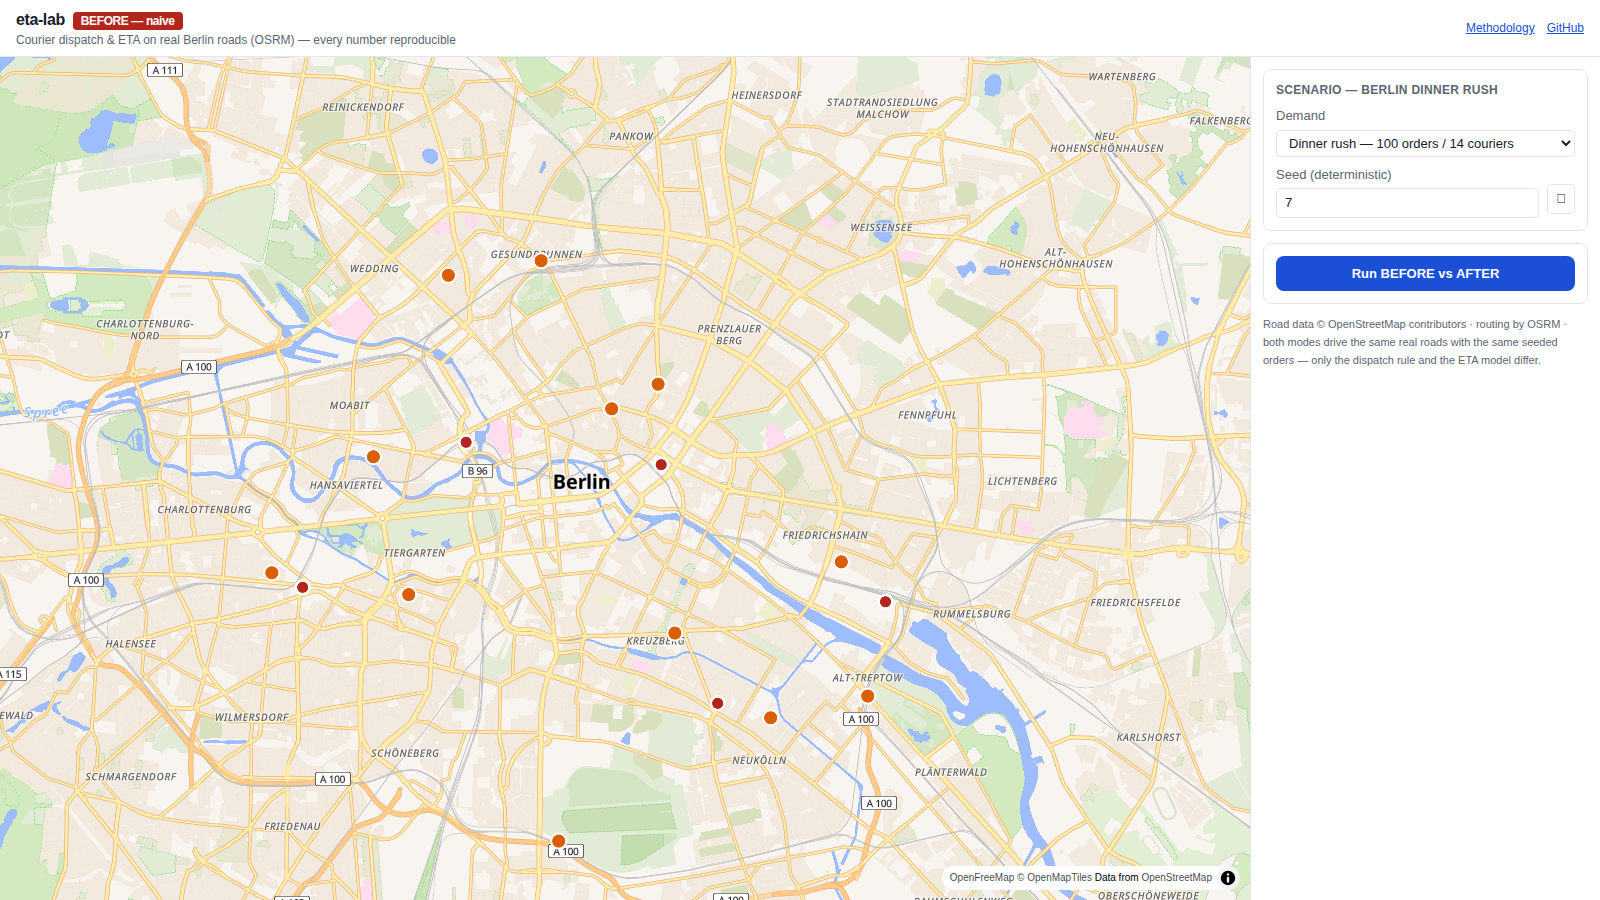
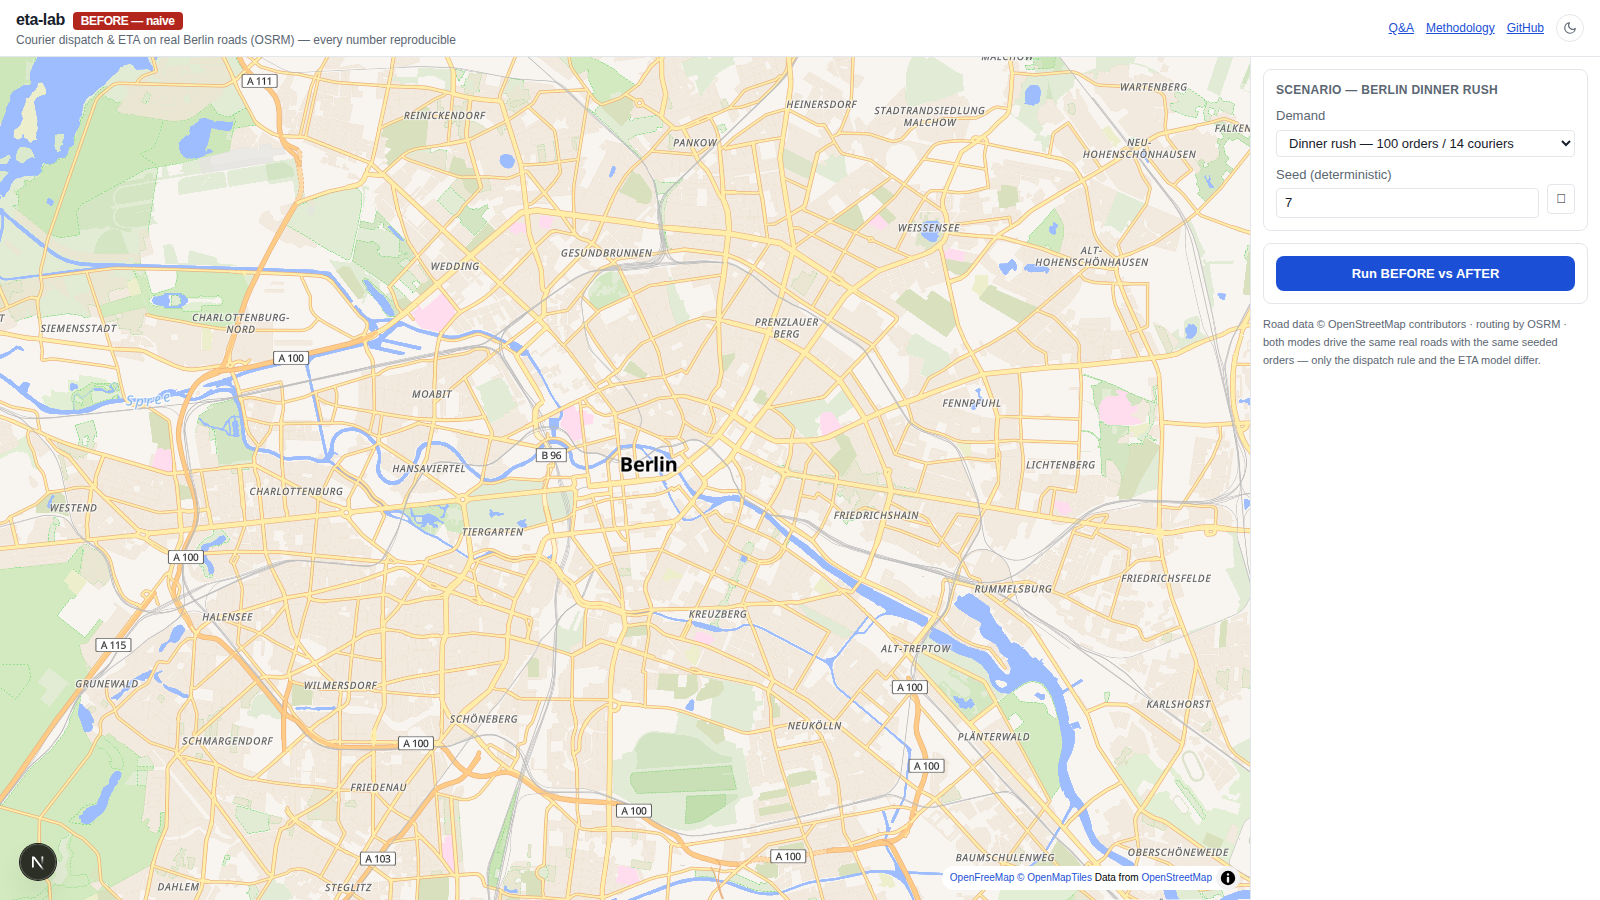
feat: BEFORE/BOTH/AFTER view toggle — side-by-side map comparison with synced replay, viewport fit on remount; e2e waits for basemap tiles

diff --git a/src/app/page.tsx b/src/app/page.tsx
@@ -22,7 +22,7 @@ export default function Home() {
   const [scenario, setScenario] = useState<Scenario | null>(() =>
     generateScenario({ seed: 7, ...PRESETS.rush }),
   );
-  const [mode, setMode] = useState<Mode>('before');
+  const [view, setView] = useState<'before' | 'after' | 'both'>('before');
   const [results, setResults] = useState<Partial<Record<Mode, RunResult>>>({});
   const [resultsSig, setResultsSig] = useState<string | null>(null);
   const [running, setRunning] = useState(false);
@@ -35,7 +35,8 @@ export default function Home() {
   const [aiBusy, setAiBusy] = useState(false);
 
   const providerRef = useRef<OsrmProvider | null>(null);
-  const mapRef = useRef<MapViewHandle>(null);
+  const beforeMapRef = useRef<MapViewHandle>(null);
+  const afterMapRef = useRef<MapViewHandle>(null);
   const rafRef = useRef<number | null>(null);
   const lastTickRef = useRef<number | null>(null);
   const timeRef = useRef(0);
@@ -43,13 +44,25 @@ export default function Home() {
   const setVirtualTime = useCallback((t: number) => {
     timeRef.current = t;
     setTime(t);
-    mapRef.current?.setTime(t);
+    beforeMapRef.current?.setTime(t);
+    afterMapRef.current?.setTime(t);
   }, []);
+
+  const before = results.before;
+  const after = results.after;
+  const activeResults = useMemo(() => {
+    if (view === 'before') return before ? [before] : [];
+    if (view === 'after') return after ? [after] : [];
+    return [before, after].filter((r): r is RunResult => r != null);
+  }, [view, before, after]);
+  const simEndMin = activeResults.length
+    ? Math.max(...activeResults.map((r) => r.result.simEndMin))
+    : 0;
 
   // animation loop
   useEffect(() => {
-    if (!playing || !results[mode]) return;
-    const simEnd = results[mode]!.result.simEndMin;
+    if (!playing || !activeResults.length) return;
+    const simEnd = simEndMin;
     const step = (ts: number) => {
       if (lastTickRef.current == null) lastTickRef.current = ts;
       const dt = ((ts - lastTickRef.current) / 1000) * (speed / 60); // virtual min
@@ -67,7 +80,7 @@ export default function Home() {
       if (rafRef.current) cancelAnimationFrame(rafRef.current);
       lastTickRef.current = null;
     };
-  }, [playing, speed, mode, results, setVirtualTime]);
+  }, [playing, speed, activeResults, simEndMin, setVirtualTime]);
 
   const getProvider = useCallback(async () => {
     if (!providerRef.current) {
@@ -87,7 +100,7 @@ export default function Home() {
     setPlaying(false);
     setAiText(null);
     setResults({});
-    setMode('before');
+    setView('before');
     setVirtualTime(0);
     try {
       const provider = await getProvider();
@@ -108,7 +121,7 @@ export default function Home() {
       setResultsSig(`${scenario.seed}:${scenario.orderCount}`);
       setDegraded(provider.degraded);
       setProgress('Done — replay the rush on the map or compare the numbers.');
-      setMode('after');
+      setView('both');
     } catch (e) {
       setProgress(`Failed: ${e instanceof Error ? e.message : String(e)}`);
     } finally {
@@ -127,16 +140,13 @@ export default function Home() {
     setProgress('');
     setAiText(null);
     setVirtualTime(0);
-    setMode('before');
+    setView('before');
   }, [setVirtualTime]);
 
-  const before = results.before;
-  const after = results.after;
   const deltas = useMemo(
     () => (before && after ? compareMetrics(before.metrics, after.metrics) : []),
     [before, after],
   );
-  const active = mode === 'before' ? before : after;
   const currentSig = scenario ? `${scenario.seed}:${scenario.orderCount}` : '';
   const dirty = Boolean(before && resultsSig && resultsSig !== currentSig);
 
@@ -195,8 +205,16 @@ export default function Home() {
         <div>
           <h1 className="text-base font-semibold tracking-tight">
             eta-lab{' '}
-            <span className={`ml-1 rounded px-2 py-0.5 text-xs font-bold text-white ${mode === 'before' ? 'bg-[var(--before)]' : 'bg-[var(--after)]'}`}>
-              {mode === 'before' ? 'BEFORE — naive' : 'AFTER — smart'}
+            <span
+              className={`ml-1 rounded px-2 py-0.5 text-xs font-bold text-white ${
+                view === 'both'
+                  ? 'bg-gradient-to-r from-[var(--before)] to-[var(--after)]'
+                  : view === 'before'
+                    ? 'bg-[var(--before)]'
+                    : 'bg-[var(--after)]'
+              }`}
+            >
+              {view === 'both' ? 'BEFORE vs AFTER' : view === 'before' ? 'BEFORE — naive' : 'AFTER — smart'}
             </span>
           </h1>
           <p className="text-xs text-[var(--muted)]">
@@ -223,7 +241,27 @@ export default function Home() {
       </header>
 
       <div className="flex min-h-0 flex-1">
-        <MapView ref={mapRef} scenario={scenario} result={active?.result ?? null} mode={mode} />
+        {view === 'both' ? (
+          <>
+            <MapView
+              ref={beforeMapRef}
+              scenario={scenario}
+              result={before?.result ?? null}
+              mode="before"
+              time={time}
+              className="min-h-0 flex-1 border-r border-[var(--line)]"
+            />
+            <MapView ref={afterMapRef} scenario={scenario} result={after?.result ?? null} mode="after" time={time} />
+          </>
+        ) : (
+          <MapView
+            ref={view === 'before' ? beforeMapRef : afterMapRef}
+            scenario={scenario}
+            result={(view === 'before' ? before : after)?.result ?? null}
+            mode={view}
+            time={time}
+          />
+        )}
 
         <aside className="flex w-[350px] shrink-0 flex-col gap-3 overflow-y-auto border-l border-[var(--line)] bg-[var(--panel)] p-3 text-[13px]">
           {/* scenario */}
@@ -284,7 +322,7 @@ export default function Home() {
           </section>
 
           {/* playback */}
-          {active && (
+          {activeResults.length > 0 && (
             <section className="rounded-lg border border-[var(--line)] p-3">
               <div className="mb-2 flex items-center justify-between">
                 <h2 className="text-xs font-semibold uppercase tracking-wide text-[var(--muted)]">Replay</h2>
@@ -322,7 +360,7 @@ export default function Home() {
                 type="range"
                 className="mt-2 w-full"
                 min={0}
-                max={active.result.simEndMin}
+                max={simEndMin}
                 step={0.1}
                 value={time}
                 onChange={(e) => {
@@ -330,9 +368,10 @@ export default function Home() {
                   setVirtualTime(Number(e.target.value));
                 }}
               />
-              <div className="mt-1 flex gap-3 text-xs text-[var(--muted)]">
-                <ModeTab m="before" mode={mode} setMode={setMode} label="BEFORE" />
-                <ModeTab m="after" mode={mode} setMode={setMode} label="AFTER" />
+              <div className="mt-1 flex gap-2 text-xs text-[var(--muted)]">
+                <ViewTab v="before" view={view} setView={setView} label="BEFORE" />
+                <ViewTab v="both" view={view} setView={setView} label="BOTH" />
+                <ViewTab v="after" view={view} setView={setView} label="AFTER" />
               </div>
             </section>
           )}
@@ -398,21 +437,21 @@ function isBetter(d: { pct: number; betterIsLower: boolean }): boolean {
   return d.betterIsLower ? d.pct < 0 : d.pct > 0;
 }
 
-function ModeTab({
-  m,
-  mode,
-  setMode,
+function ViewTab({
+  v,
+  view,
+  setView,
   label,
 }: {
-  m: Mode;
-  mode: Mode;
-  setMode: (m: Mode) => void;
+  v: 'before' | 'after' | 'both';
+  view: 'before' | 'after' | 'both';
+  setView: (v: 'before' | 'after' | 'both') => void;
   label: string;
 }) {
   return (
     <button
-      className={`rounded px-2 py-0.5 font-semibold ${mode === m ? 'bg-[var(--ink)] text-[var(--panel)]' : 'bg-[var(--chip)] text-[var(--muted)] hover:bg-[var(--hover)]'}`}
-      onClick={() => setMode(m)}
+      className={`rounded px-2 py-0.5 font-semibold ${view === v ? 'bg-[var(--ink)] text-[var(--panel)]' : 'bg-[var(--chip)] text-[var(--muted)] hover:bg-[var(--hover)]'}`}
+      onClick={() => setView(v)}
     >
       {label}
     </button>

diff --git a/src/components/MapView.tsx b/src/components/MapView.tsx
@@ -17,6 +17,8 @@ interface Props {
   scenario: Scenario | null;
   result: SimResult | null;
   mode: 'before' | 'after';
+  time: number;
+  className?: string;
 }
 
 const ORDER_COLORS: Record<string, string> = {
@@ -39,12 +41,13 @@ function makeMap(container: HTMLElement): MapLibreMap {
 }
 
 export const MapView = forwardRef<MapViewHandle, Props>(function MapView(
-  { scenario, result, mode },
+  { scenario, result, mode, time, className },
   ref,
 ) {
   const containerRef = useRef<HTMLDivElement>(null);
   const mapRef = useRef<MapLibreMap | null>(null);
   const popupRef = useRef<Popup | null>(null);
+  const fittedRef = useRef<Scenario | null>(null);
   const dataRef = useRef<{
     scenario: Scenario | null;
     result: SimResult | null;
@@ -53,6 +56,7 @@ export const MapView = forwardRef<MapViewHandle, Props>(function MapView(
 
   dataRef.current.scenario = scenario;
   dataRef.current.result = result;
+  dataRef.current.time = time;
 
   function ensureSources(map: MapLibreMap) {
     if (map.getSource('restos')) return;
@@ -126,20 +130,44 @@ export const MapView = forwardRef<MapViewHandle, Props>(function MapView(
     return { type: 'FeatureCollection', features: [] };
   }
 
+  function fitScenario(map: MapLibreMap, sc: Scenario) {
+    const pts = [
+      ...sc.restaurants.map((r) => r.pos),
+      ...sc.orders.map((o) => o.cust),
+      ...sc.couriers.map((c) => c.home),
+    ];
+    const lons = pts.map((p) => p[0]);
+    const lats = pts.map((p) => p[1]);
+    fittedRef.current = sc;
+    map.fitBounds(
+      [
+        [Math.min(...lons), Math.min(...lats)],
+        [Math.max(...lons), Math.max(...lats)],
+      ],
+      { padding: 60, duration: 600, maxZoom: 13.5 },
+    );
+  }
+
   useEffect(() => {
     if (!containerRef.current || mapRef.current) return;
     const map = makeMap(containerRef.current);
     mapRef.current = map;
     // exposed for the E2E test (scripts/e2e.ts)
-    (window as unknown as Record<string, unknown>).__etaMap = map;
+    const w = window as unknown as { __etaMap?: MapLibreMap; __etaMaps?: MapLibreMap[] };
+    w.__etaMap = map;
+    (w.__etaMaps ??= []).push(map);
     map.on('load', () => {
       ensureSources(map);
       refreshStatic();
+      const sc = dataRef.current.scenario;
+      if (sc && fittedRef.current !== sc) fitScenario(map, sc);
       refreshAt(dataRef.current.time);
     });
     return () => {
       popupRef.current?.remove();
       map.remove();
+      const w = window as unknown as { __etaMaps?: MapLibreMap[] };
+      w.__etaMaps = w.__etaMaps?.filter((m) => m !== map);
       mapRef.current = null;
     };
     // eslint-disable-next-line react-hooks/exhaustive-deps
@@ -151,22 +179,7 @@ export const MapView = forwardRef<MapViewHandle, Props>(function MapView(
     if (!map || !map.isStyleLoaded()) return;
     if (map.getLayer('couriers-circle'))
       map.setPaintProperty('couriers-circle', 'circle-color', mode === 'before' ? '#b3261e' : '#1d7a3e');
-    if (scenario) {
-      const pts = [
-        ...scenario.restaurants.map((r) => r.pos),
-        ...scenario.orders.map((o) => o.cust),
-        ...scenario.couriers.map((c) => c.home),
-      ];
-      const lons = pts.map((p) => p[0]);
-      const lats = pts.map((p) => p[1]);
-      map.fitBounds(
-        [
-          [Math.min(...lons), Math.min(...lats)],
-          [Math.max(...lons), Math.max(...lats)],
-        ],
-        { padding: 60, duration: 600, maxZoom: 13.5 },
-      );
-    }
+    if (scenario && fittedRef.current !== scenario) fitScenario(map, scenario);
     refreshStatic();
     refreshAt(dataRef.current.time);
   }, [scenario, result, mode]);
@@ -271,7 +284,7 @@ export const MapView = forwardRef<MapViewHandle, Props>(function MapView(
     },
   }));
 
-  return <div ref={containerRef} className="min-h-0 flex-1" />;
+  return <div ref={containerRef} className={className ?? 'min-h-0 flex-1'} />;
 });
 
 function fmtClock(sc: Scenario, tMin: number): string {

diff --git a/scripts/e2e.ts b/scripts/e2e.ts
@@ -27,6 +27,14 @@ async function waitForResults(page: Page, timeoutMs = 240_000): Promise<void> {
   throw new Error('results table did not appear in time');
 }
 
+/** Basemap tiles (openfreemap) can be slow — wait until every live map has its tiles. */
+async function waitForTiles(page: Page, timeoutMs = 90_000): Promise<void> {
+  await page.waitForFunction(
+    'window.__etaMaps != null && window.__etaMaps.length > 0 && window.__etaMaps.every((m) => m.areTilesLoaded())',
+    { timeout: timeoutMs },
+  );
+}
+
 async function main() {
   mkdirSync(OUT, { recursive: true });
   const browser = await puppeteer.launch({
@@ -56,6 +64,7 @@ async function main() {
     if (!map) throw new Error('map instance not on window');
     map.once('idle');
   });
+  await waitForTiles(page);
   await sleep(800);
   await page.screenshot({ path: path.join(OUT, '01-map-initial.png') });
   // NOTE: readPixels on a composited WebGL canvas is always transparent, so we
@@ -81,6 +90,7 @@ async function main() {
   console.log('5. waiting for both runs to finish…');
   await waitForResults(page);
   await sleep(1200);
+  await waitForTiles(page).catch(() => {}); // tiles may be rate-limited in BOTH view; screenshot anyway
   await page.screenshot({ path: path.join(OUT, '02-after-results.png') });
 
   console.log('6. switch to BEFORE view and replay end');
@@ -96,6 +106,7 @@ async function main() {
     range.dispatchEvent(new Event('input', { bubbles: true }));
   });
   await sleep(700);
+  await waitForTiles(page).catch(() => {});
   await page.screenshot({ path: path.join(OUT, '03-before-replay.png') });
 
   const summary = await page.evaluate(() => {
